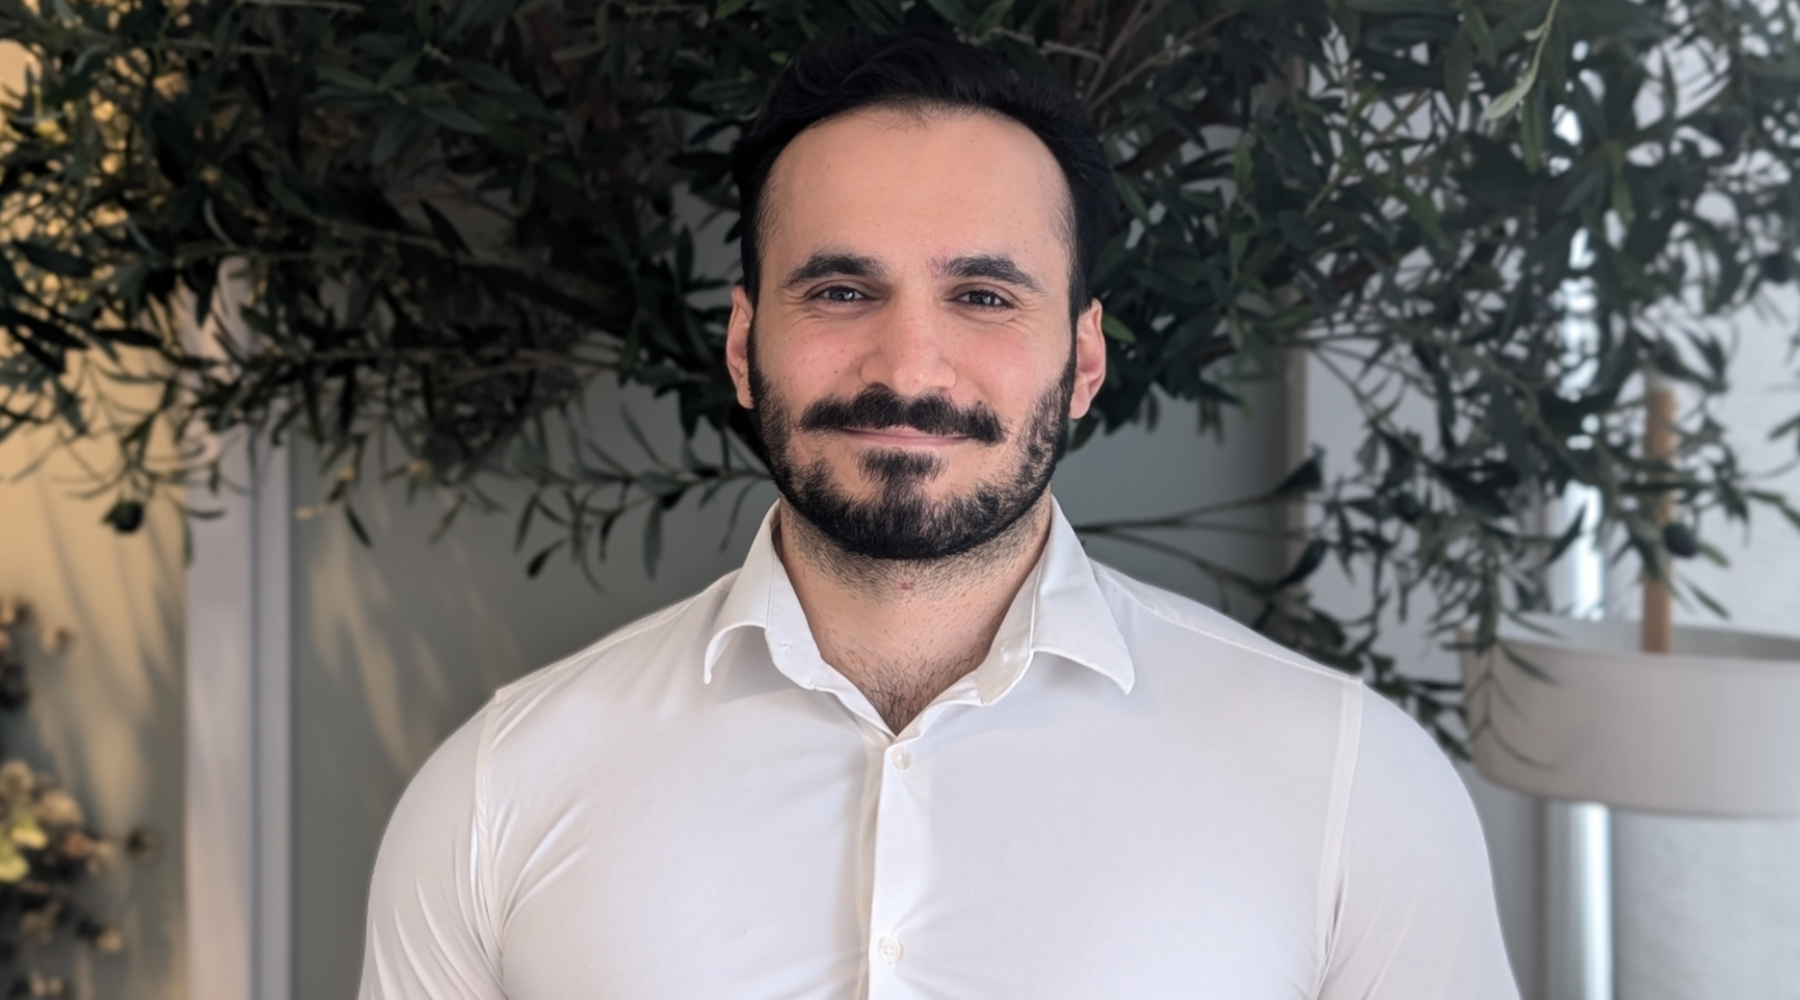
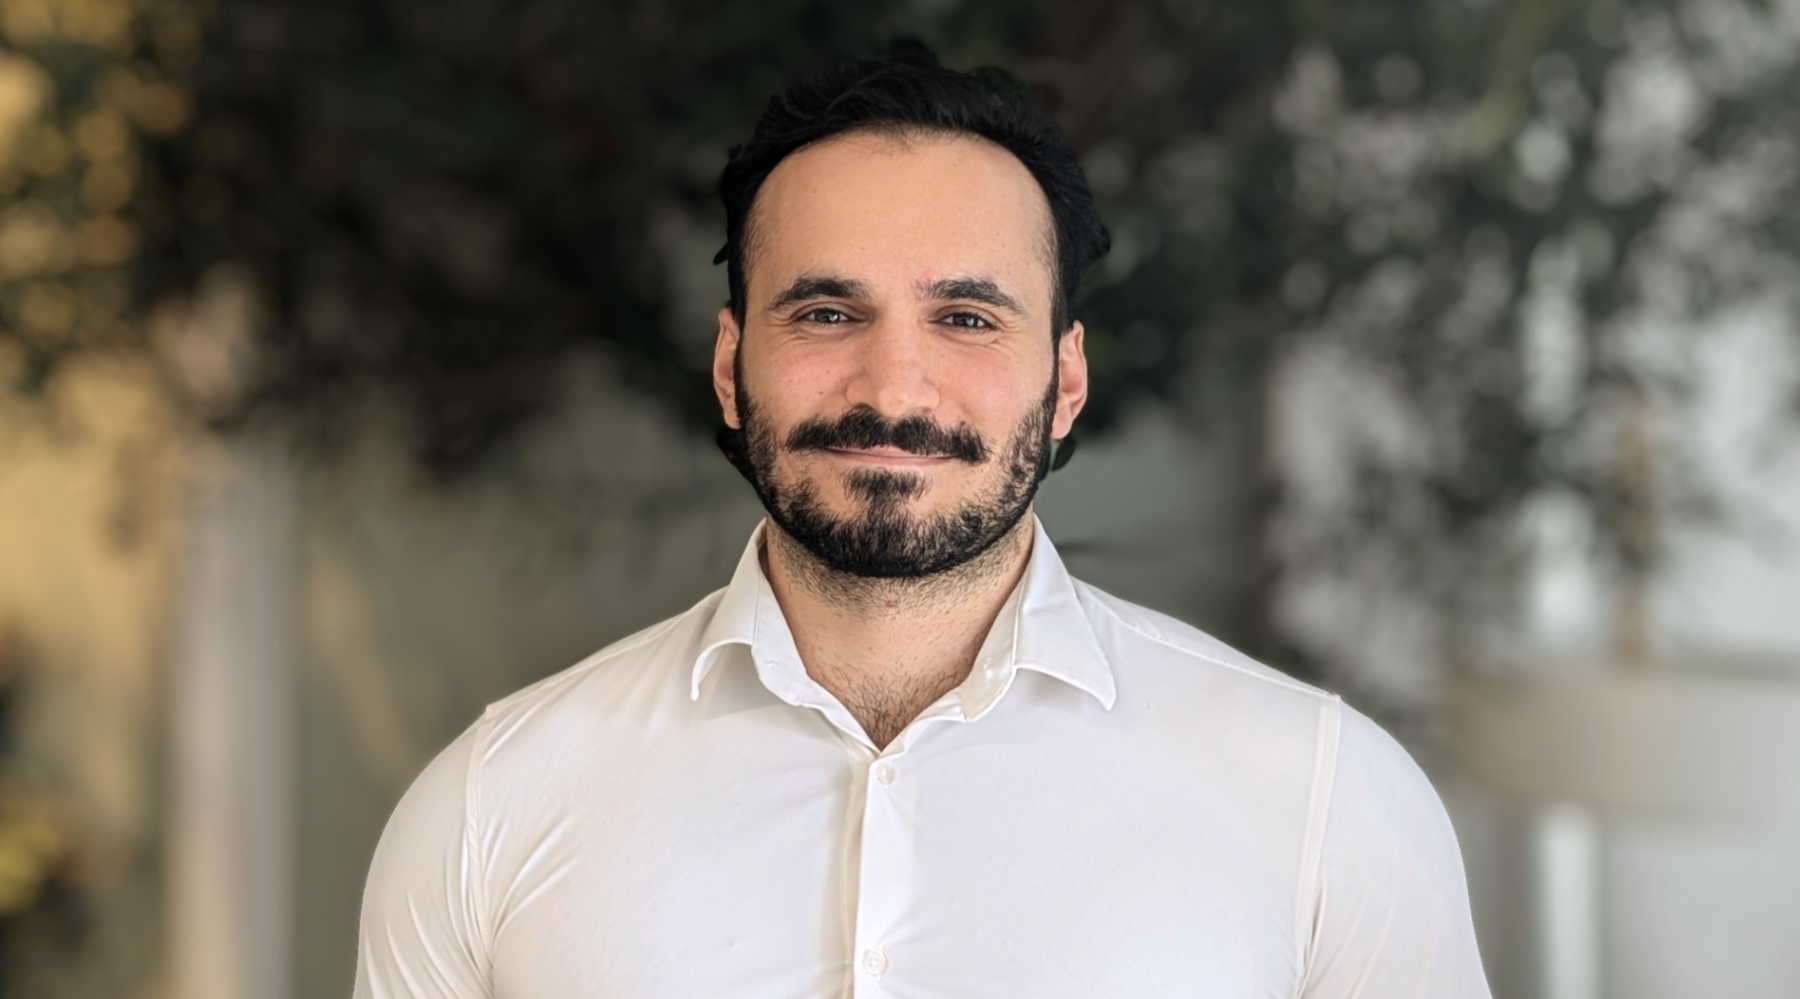
nya bilder och rätt telefonnr

diff --git a/content/medarbetare/christofferwallberg.md b/content/medarbetare/christofferwallberg.md
@@ -6,7 +6,7 @@ alumni: false
 tagLine: Utvecklare
 image: /assets/medarbetare_christofferwallberg.jpg
 avatar: /assets/medarbetare_christofferwallberg-avatar.jpg
-phone: 0768 – 39 48 37
+phone: 0738 - 99 63 77
 email: christoffer.wallberg@kits.se
 ---
 Hej!

diff --git a/content/medarbetare/basharoumari.md b/content/medarbetare/basharoumari.md
@@ -6,7 +6,7 @@ alumni: false
 tagLine: Säkerhetsexpert
 image: /assets/medarbetare_basharoumari.jpg
 avatar: /assets/medarbetare_basharoumari-avatar.jpg
-phone: 0768 – 39 48 37
+phone: 0761 – 18 18 39
 email: bashar.oumari@kits.se
 ---
 Hej!

diff --git a/content/medarbetare/attilalundin.md b/content/medarbetare/attilalundin.md
@@ -6,7 +6,7 @@ alumni: false
 tagLine: Säkerhetsexpert
 image: /assets/medarbetare_attilalundin.jpg
 avatar: /assets/medarbetare_attilalundin-avatar.jpg
-phone: 0768 – 39 48 37
+phone: 0761 - 37 11 49
 email: attila.lundin@kits.se
 ---
 Hej!
